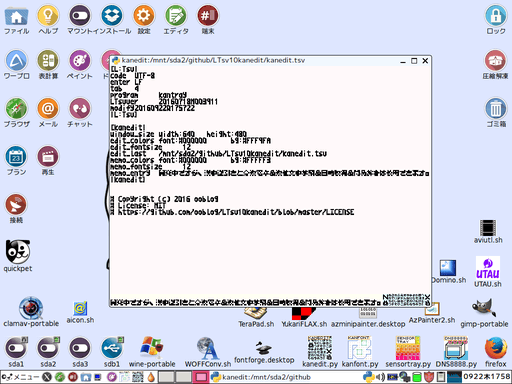
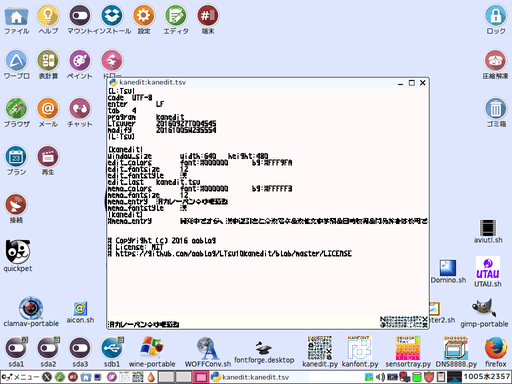
「Pce(piece)」チェックボックス追加。ONにすると頂点単位だけでなくポリゴン単位での移動が可能。

diff --git a/kanfont.py b/kanfont.py
@@ -16,7 +16,7 @@ from LTsv_glyph  import *
 
 PSfont_ZW,PSfont_CW,PSchar_ZW,PSchar_CW=1024,624,1000,600
 kanfont_ltsv,kanfont_config="",""
-kanfont_seek,kanfont_fontgrid,kanfont_gridinner,kanfont_lineseg,kanfont_gothic,kanfont_gridimage="ぱ",25,0,0,0,"kanfont_grid25_199.png"
+kanfont_seek,kanfont_fontgrid,kanfont_gridinner,kanfont_piece,kanfont_lineseg,kanfont_gothic,kanfont_gridimage="ぱ",25,0,0,0,0,"kanfont_grid25_199.png"
 kanfont_refer,kanfont_refergrid="Noto Sans Japanese Regular",0
 kanfont_referposX,kanfont_referposY,kanfont_referposS,kanfont_referposC=0,0,PSchar_ZW//2,"#E5E5E5"
 kanfont_gridX,kanfont_gridY,kanfont_gridP,kanfont_gridQ,kanfont_catchP,kanfont_catchQ,kanfont_catchZ,kanfont_catchX,kanfont_catchY=0,0,-1,-1,-1,-1,-1,0,0
@@ -38,7 +38,7 @@ def kanfont_pathadjustment(pathpos=None):
     LTsv_widget_showhide(kanfont_path_scale,True)
 
 def kanfont_code(pathpos=None):
-    global kanfont_seek,kanfont_fontgrid,kanfont_gridinner,kanfont_lineseg,kanfont_gothic,kanfont_gridimage
+    global kanfont_seek,kanfont_fontgrid,kanfont_gridinner,kanfont_piece,kanfont_lineseg,kanfont_gothic,kanfont_gridimage
     kanfont_seek=LTsv_chrcode(LTsv_widget_getnumber(kanfont_code_scale))
     LTsv_widget_settext(kanfont_code_label,hex(LTsv_widget_getnumber(kanfont_code_scale)).replace("0x","U+"))
     kanfont_pathadjustment(pathpos)
@@ -88,22 +88,27 @@ def kanfont_pathsel_shell(window_objvoid=None,window_objptr=None):
     kanfont_glyph_draw()
 
 def kanfont_grid_shell(window_objvoid=None,window_objptr=None):
-    global kanfont_seek,kanfont_fontgrid,kanfont_gridinner,kanfont_lineseg,kanfont_gothic,kanfont_gridimage
+    global kanfont_seek,kanfont_fontgrid,kanfont_gridinner,kanfont_piece,kanfont_lineseg,kanfont_gothic,kanfont_gridimage
     kanfont_fontgrid=LTsv_widget_getnumber(kanfont_grid_spin)
     LTsv_widget_settext(kanfont_inner_check,str(kanfont_fontgrid-1))
 
 def kanfont_inner_shell(window_objvoid=None,window_objptr=None):
-    global kanfont_seek,kanfont_fontgrid,kanfont_gridinner,kanfont_lineseg,kanfont_gothic,kanfont_gridimage
+    global kanfont_seek,kanfont_fontgrid,kanfont_gridinner,kanfont_piece,kanfont_lineseg,kanfont_gothic,kanfont_gridimage
     kanfont_gridinner=LTsv_widget_getnumber(kanfont_inner_check)
 
+def kanfont_piece_shell(window_objvoid=None,window_objptr=None):
+    global kanfont_seek,kanfont_fontgrid,kanfont_gridinner,kanfont_piece,kanfont_lineseg,kanfont_gothic,kanfont_gridimage
+    kanfont_piece=LTsv_widget_getnumber(kanfont_piece_check)
+    kanfont_glyph_draw()
+
 def kanfont_lineseg_shell(window_objvoid=None,window_objptr=None):
-    global kanfont_seek,kanfont_fontgrid,kanfont_gridinner,kanfont_lineseg,kanfont_gothic,kanfont_gridimage
+    global kanfont_seek,kanfont_fontgrid,kanfont_gridinner,kanfont_piece,kanfont_lineseg,kanfont_gothic,kanfont_gridimage
     kanfont_lineseg=LTsv_widget_getnumber(kanfont_seg_check)
     kanfont_glyph_draw()
 
 def debug_gothic_shell(radioNumber):
     def debug_gothic_kernel(window_objvoid=None,window_objptr=None):
-        global kanfont_seek,kanfont_fontgrid,kanfont_gridinner,kanfont_lineseg,kanfont_gothic,kanfont_gridimage
+        global kanfont_seek,kanfont_fontgrid,kanfont_gridinner,kanfont_piece,kanfont_lineseg,kanfont_gothic,kanfont_gridimage
         if kanfont_gothic != radioNumber:
             kanfont_gothic=radioNumber
             kanfont_code()
@@ -235,8 +240,17 @@ def kanfont_glyph_mousemotion(window_objvoid=None,window_objptr=None):
     glyphnote=LTsv_glyph_getnote(glyphcode,draw_g=LTsv_global_glyphtype()[kanfont_gothic])
     kanfont_catchZ=LTsv_widget_getnumber(kanfont_path_scale)
     if kanfont_catchP >= 0:
-        glyphnote[kanfont_catchZ][kanfont_catchP*2],glyphnote[kanfont_catchZ][kanfont_catchP*2+1]=kanfont_gridX*2,kanfont_gridY*2
-        LTsv_glyph_points2path(draw_t=glyphcode,glyphnote=glyphnote,draw_g=LTsv_global_glyphtype()[kanfont_gothic])
+        if kanfont_piece !=0 and kanfont_catchP == 0:
+            glyphpiece=[0]*len(glyphnote[kanfont_catchZ])
+            for catchP in range(len(glyphnote[kanfont_catchZ])//2):
+                glyphpiece[catchP*2],glyphpiece[catchP*2+1]=glyphnote[kanfont_catchZ][catchP*2]-glyphnote[kanfont_catchZ][kanfont_catchP*2],glyphnote[kanfont_catchZ][catchP*2+1]-glyphnote[kanfont_catchZ][kanfont_catchP*2+1]
+            for catchP in range(len(glyphnote[kanfont_catchZ])//2):
+                glyphnote[kanfont_catchZ][catchP*2]=min(max(kanfont_gridX*2+glyphpiece[catchP*2],0),PSchar_ZW)
+                glyphnote[kanfont_catchZ][catchP*2+1]=min(max(kanfont_gridY*2+glyphpiece[catchP*2+1],0),PSchar_ZW)
+            LTsv_glyph_points2path(draw_t=glyphcode,glyphnote=glyphnote,draw_g=LTsv_global_glyphtype()[kanfont_gothic])
+        else:
+            glyphnote[kanfont_catchZ][kanfont_catchP*2],glyphnote[kanfont_catchZ][kanfont_catchP*2+1]=kanfont_gridX*2,kanfont_gridY*2
+            LTsv_glyph_points2path(draw_t=glyphcode,glyphnote=glyphnote,draw_g=LTsv_global_glyphtype()[kanfont_gothic])
     if kanfont_catchX != kanfont_gridX or kanfont_catchY != kanfont_gridY:
         kanfont_catchX,kanfont_catchY=-1,-1
     kanfont_glyph_draw()
@@ -384,7 +398,7 @@ def kanfont_svgmake(window_objvoid=None,window_objptr=None):
 
 def kanfont_configload():
     global kanfont_ltsv,kanfont_config
-    global kanfont_seek,kanfont_fontgrid,kanfont_gridinner,kanfont_lineseg,kanfont_gothic,kanfont_gridimage
+    global kanfont_seek,kanfont_fontgrid,kanfont_gridinner,kanfont_piece,kanfont_lineseg,kanfont_gothic,kanfont_gridimage
     global kanfont_refer,kanfont_refergrid
     global kanfont_referposX,kanfont_referposY,kanfont_referposS,kanfont_referposC
     global kanfont_glyphcolorR,kanfont_glyphcolorL,kanfont_glyphcolorX,kanfont_glyphcolorG
@@ -396,6 +410,7 @@ def kanfont_configload():
     kanfont_fontgrid=min(max(LTsv_intstr0x(LTsv_readlinerest(kanfont_config,"grid",str(kanfont_fontgrid))),10),100)
     kanfont_gridinner=min(max(LTsv_intstr0x(LTsv_readlinerest(kanfont_config,"inner",str(kanfont_gridinner))),0),1)
     kanfont_lineseg=min(max(LTsv_intstr0x(LTsv_readlinerest(kanfont_config,"lineseg",str(kanfont_lineseg))),0),1)
+    kanfont_piece=min(max(LTsv_intstr0x(LTsv_readlinerest(kanfont_config,"piece",str(kanfont_lineseg))),0),1)
     kanfont_gothic=min(max(LTsv_intstr0x(LTsv_readlinerest(kanfont_config,"gothic",str(kanfont_gothic))),0),len(LTsv_global_glyphtype())-1)
     kanfont_gridimage=LTsv_readlinerest(kanfont_config,"gridimage",kanfont_gridimage)
     kanfont_refer=LTsv_readlinerest(kanfont_config,"refer",kanfont_refer)
@@ -416,13 +431,14 @@ def kanfont_configload():
 
 def kanfont_configsave_exit(window_objvoid=None,window_objptr=None):
     global kanfont_ltsv,kanfont_config
-    global kanfont_seek,kanfont_fontgrid,kanfont_gridinner,kanfont_lineseg,kanfont_gothic,kanfont_gridimage
+    global kanfont_seek,kanfont_fontgrid,kanfont_gridinner,kanfont_piece,kanfont_lineseg,kanfont_gothic,kanfont_gridimage
     global kanfont_refer,kanfont_refergrid
     kanfont_ltsv=LTsv_loadfile("kanfont.tsv")
     kanfont_config=LTsv_pushlinerest(kanfont_config,"seek",kanfont_seek)
     kanfont_config=LTsv_pushlinerest(kanfont_config,"grid",str(kanfont_fontgrid))
     kanfont_config=LTsv_pushlinerest(kanfont_config,"inner",str(kanfont_gridinner))
     kanfont_config=LTsv_pushlinerest(kanfont_config,"lineseg",str(kanfont_lineseg))
+    kanfont_config=LTsv_pushlinerest(kanfont_config,"piece",str(kanfont_piece))
     kanfont_config=LTsv_pushlinerest(kanfont_config,"gothic",str(kanfont_gothic))
     kanfont_config=LTsv_pushlinerest(kanfont_config,"refergrid",str(kanfont_refergrid))
     kanfont_ltsv=LTsv_putpage(kanfont_ltsv,"kanfont",kanfont_config)
@@ -465,7 +481,8 @@ if len(LTsv_GUI) > 0:
     kanfont_grid_spin=LTsv_spin_new(kanfont_window,widget_x=kanfont_canvas_X+kanfont_canvas_WH*5//8,widget_y=kanfont_canvas_WH+kanfont_label_WH,widget_w=kanfont_canvas_WH*1//8,widget_h=kanfont_label_WH,widget_s=5,widget_e=PSchar_ZW//5,widget_a=1,widget_f=kanfont_font_entry,event_b=kanfont_grid_shell)
     kanfont_inner_check=LTsv_check_new(kanfont_window,widget_t="24",widget_x=kanfont_canvas_X+kanfont_canvas_WH*5//8,widget_y=kanfont_canvas_WH+kanfont_label_WH*2,widget_w=kanfont_canvas_WH*1//8,widget_h=kanfont_label_WH,widget_f=kanfont_font_entry,event_b=kanfont_inner_shell)
     kanfont_seg_check=LTsv_check_new(kanfont_window,widget_t="seg",widget_x=kanfont_canvas_X+kanfont_canvas_WH*6//8,widget_y=kanfont_canvas_WH+kanfont_label_WH*0,widget_w=kanfont_canvas_WH*1//8,widget_h=kanfont_label_WH,widget_f=kanfont_font_entry,event_b=kanfont_lineseg_shell)
-    kanfont_refer_check=LTsv_check_new(kanfont_window,widget_t="ref",widget_x=kanfont_canvas_X+kanfont_canvas_WH*6//8,widget_y=kanfont_canvas_WH+kanfont_label_WH*1,widget_w=kanfont_canvas_WH*1//8,widget_h=kanfont_label_WH,widget_f=kanfont_font_entry,event_b=kanfont_refer_shell)
+    kanfont_piece_check=LTsv_check_new(kanfont_window,widget_t="Pce",widget_x=kanfont_canvas_X+kanfont_canvas_WH*6//8,widget_y=kanfont_canvas_WH+kanfont_label_WH*1,widget_w=kanfont_canvas_WH*1//8,widget_h=kanfont_label_WH,widget_f=kanfont_font_entry,event_b=kanfont_piece_shell)
+    kanfont_refer_check=LTsv_check_new(kanfont_window,widget_t="ref",widget_x=kanfont_canvas_X+kanfont_canvas_WH*6//8,widget_y=kanfont_canvas_WH+kanfont_label_WH*2,widget_w=kanfont_canvas_WH*1//8,widget_h=kanfont_label_WH,widget_f=kanfont_font_entry,event_b=kanfont_refer_shell)
     kanfont_gothic_radio=[None]*len(LTsv_global_glyphtype())
     for glyphtype_cnt,glyphtype_split in enumerate(LTsv_global_glyphtype()):
         kanfont_gothic_radio[glyphtype_cnt]=LTsv_radio_new(kanfont_window,widget_t=glyphtype_split,widget_x=kanfont_canvas_X+kanfont_canvas_WH*7//8,widget_y=kanfont_canvas_WH+kanfont_label_WH*glyphtype_cnt,widget_w=kanfont_canvas_WH*1//8,widget_h=kanfont_label_WH,widget_f=kanfont_font_entry,event_b=debug_gothic_shell(glyphtype_cnt))
@@ -489,6 +506,7 @@ if len(LTsv_GUI) > 0:
     kanfont_codekbd(kanfont_seek)
     LTsv_widget_setnumber(kanfont_grid_spin,kanfont_fontgrid); kanfont_grid_shell()
     LTsv_widget_setnumber(kanfont_inner_check,kanfont_gridinner)
+    LTsv_widget_setnumber(kanfont_piece_check,kanfont_piece)
     LTsv_widget_setnumber(kanfont_seg_check,kanfont_lineseg)
     LTsv_widget_setnumber(kanfont_gothic_radio[0],kanfont_gothic)
     LTsv_widget_setnumber(kanfont_refer_check,kanfont_refergrid)
